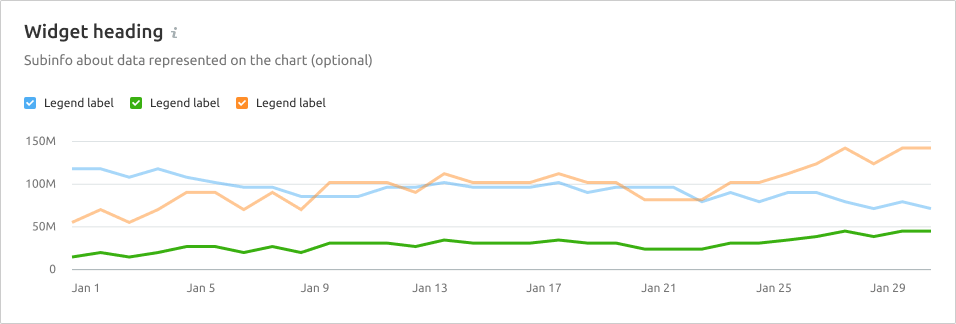
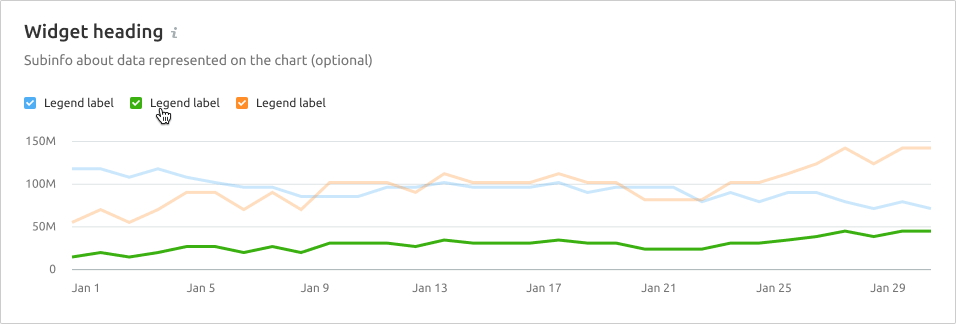
[ChartLegend, D3 chart] Add info about interaction with the legend, fix typos

diff --git a/website/docs/data-display/d3-chart/d3-chart.md b/website/docs/data-display/d3-chart/d3-chart.md
@@ -9,7 +9,7 @@ beta: true
 
 Мы не манипулируем вашими данными и не пытаемся из них что-то вычислить, отсортировать или проверить. Манипуляции с данными — работа команд, не компонента.
 
-Мы считаем, что графики — это сложный, комплексный компонент, который нельзя применять одной строчкой, поэтому его API более развесистый и поддерживает все концепции дизайн-системы.
+Мы считаем, что графики — это сложный, комплексный компонент, который нельзя применять одной строчкой, поэтому его API более "развесистый" и поддерживает все концепции дизайн-системы.
 
 @## Концепция
 
@@ -17,9 +17,9 @@ beta: true
 - В основе всех графиков лежит d3-scale, который вы передаете в наши графики в настроенном виде.
 - Мы стараемся дать доступ к каждой `svg`-ноде, чтобы вы могли дополнить или изменить её.
 
-Каждый элемент который вы будете размещать на графике имеет под собой реальный svg-элемент или группу элементов. Например, когда вы рендрите `<Line/>`, вы получите svg `<line d={...}>`, и все свойства будут сквозить на этот элемент.
+Каждый элемент, который вы будете размещать на графике, имеет под собой реальный svg-элемент или группу элементов. Например, когда вы рендерите `<Line/>`, вы получите svg `<line d={...}>`, и все свойства будут "сквозить" на этот элемент.
 
-Когда вы рендерите `<Line.Dots/>`(точки на линейном графике), вы получаете множество `<circle cx={...} cy={...}/>`, и все свойства будут сквозить на эти элементы.
+Когда вы рендерите `<Line.Dots/>` (точки на линейном графике), вы получаете множество `<circle cx={...} cy={...}/>`, и все свойства будут "сквозить" на эти элементы.
 
 Для точечного изменения свойств каждой конкретной точки нужно передать функцию, которая будет вызываться на каждой точке с рассчитанными свойствами этой точки.
 
@@ -44,7 +44,7 @@ beta: true
 </Line>
 ```
 
-не вложит `<circle/>` в `<line/>`, а отрисует их друг за другом.
+не вкладывает `<circle/>` в `<line/>`, а отрисовывает их друг за другом.
 
 За всю стилистику графиков отвечает CSS. Про его кастомизацию можно почитать в гайде [Themes](/style/themes/).
 
@@ -52,7 +52,7 @@ beta: true
 
 Любой `svg`-контейнер должен иметь абсолютные значения своего размера.
 
-Про виды `scale`, их `range` и `domain` можно почитать на [странице d3 на GitHub](https://github.com/d3/d3-scale).
+Про виды `scale`, их `range` и `domain`, можно почитать на [странице d3 на GitHub](https://github.com/d3/d3-scale).
 
 > `range` горизонтального `scale` задается перевернутым, чтобы начало отсчета было в нижнем левом углу.
 
@@ -68,12 +68,12 @@ beta: true
 
 @## Оси
 
-На самом деле, оси координат уже заданы, когда вы передали `scale` в рутовый компонент, однако для отрисовки нужно их указать.
+На самом деле, оси координат уже заданы, когда вы передали `scale` в рутовый компонент. Однако для отрисовки нужно их указать.
 
 - `XAxis/YAxis` - являются осевыми линиями.
 - `Ticks` - являются значениями на оси.
 
-Так же можно располагать несколько осей с разными позициями.
+Также можно располагать несколько осей с разными позициями.
 
 Количество тиков можно получить из метода `scale.ticks` или `scale.domain`. Чтобы вычислить примерное количество тиков, можно разделить размер графика на размер одного тика.
 
@@ -85,7 +85,7 @@ beta: true
 
 Значения и свойства на оси можно изменять, передав функцию.
 
-Тегом по умолчанию является `<text/>`, но его можно изменить, определив свойство `tag`, например, на `foreignObject` для вставки `html`-компонентов.
+Тегом по умолчанию является `<text/>`, но его можно изменить, определив свойство `tag`. Например, на `foreignObject` для вставки `html`-компонентов.
 
 > В аргументах функции вы можете получить вычисленные координаты `x/y` и произвести свои манипуляции со сдвигом.
 
@@ -93,7 +93,7 @@ beta: true
 
 @## Вспомогательные линии
 
-Вспомогательные линии, формируются также, как и тики.
+Вспомогательные линии формируются так же, как и тики.
 
 > Для простоты `ticks` можно указать на самом компоненте `Axis`, и он автоматически передастся на `<Axis.Ticks/>` и на `<Axis.Grid/>`.
 
@@ -101,7 +101,7 @@ beta: true
 
 @## Заголовки осей
 
-Подписи к осям формируются также, как тики и вспомогательные линии.
+Подписи к осям формируются так же, как тики и вспомогательные линии.
 
 > По умолчанию заголовок для оси Oy устанавливается справа, а для оси Ox - сверху. Но вы можете изменить это, передав в `position` необходимое расположение: right, top, left или bottom.
 
@@ -110,7 +110,7 @@ beta: true
 @## Aдаптивный график
 
 Для нормального отображения `svg` графиков на адаптивных макетах нужно динамически расчитывать ширину и высоту блока,
-поэтому мы создали компонент `ResponsiveContainer`, который так же поддерживает все свойства [Box](/layout/box-system/box-api), c помощью которых можно гибко настраивать размеры блока.
+поэтому мы создали компонент `ResponsiveContainer`, который поддерживает все свойства [Box](/layout/box-system/box-api), c помощью которых можно гибко настраивать размеры блока.
 
 > ResponsiveContainer поддерживает свойство `aspect` - это отношение размеров между шириной и высотой блока.
 
@@ -122,7 +122,7 @@ beta: true
 
 @## Легенда графика
 
-Имплиминтация работы кликабельной легенды для чартов по [гайду](/data-display/chart-legend/)
+Имплементация работы кликабельной легенды для чартов по [гайду](/data-display/chart-legend/)
 
 @example legend
 

diff --git a/website/docs/data-display/d3-chart/bar.md b/website/docs/data-display/d3-chart/bar.md
@@ -6,13 +6,13 @@ title: Bar chart
 
 Для столбчатых графиков используйте `scaleBand` вместо `scaleLinear`. Подробнее смотрите в документации d3 про [Ordinal Scales](https://github.com/d3/d3-scale#ordinal-scales).
 
-`scaleBand` может работать с нечисловыми значениями, поэтому в `domain` указывается не пара значений (минимальное и максимальное), а полный список значений.
+`scaleBand` может работать с нечисловыми значениями, поэтому в `domain` указывайте не пару значений (минимальное и максимальное), а полный список значений.
 
 @example bar
 
 @## Hover Bar
 
-Также, как и `<HoverLine/>`, есть компонент `<HoverRect/>`, который рисует прямоугольник при наведении на график.
+Так же, как и `<HoverLine/>`, есть компонент `<HoverRect/>`, который рисует прямоугольник при наведении на график.
 
 @example hover-bar
 
@@ -76,6 +76,6 @@ title: Bar chart
 
 @## Background
 
-Графикам можно задавать задний фон при необходимости. Для этого используются компоненты `<Bar.Background/>` и `<HorizontalBar.Background/>`
+Графикам можно задавать задний фон при необходимости. Для этого используйте компоненты `<Bar.Background/>` и `<HorizontalBar.Background/>`
 
 @example bar-background

diff --git a/website/docs/data-display/chart-legend/chart-legend.md b/website/docs/data-display/chart-legend/chart-legend.md
@@ -48,9 +48,13 @@ A static legend is a circle of the same size as the checkbox in the clickable le
 
 @## Interaction
 
-When you hover over the checkbox in the legend, the line increases (`stroke-width` changes from 3 to 5).
+By hovering on the checkbox, we will highlight the data on the chart by changing the transparency of the lines to 50% for the rest of the data categories.
 
 ![legend hover](static/legend-hover.png)
+
+If we disabled some data in the legend, then the data on the chart doesnэt change its transparency.
+
+![legend hover](static/legend-hover2.png)
 
 @## Disabled legend
 

diff --git a/website/docs/components/notice-bubble/notice-bubble-example.md b/website/docs/components/notice-bubble/notice-bubble-example.md
@@ -87,3 +87,7 @@ class DemoManager extends React.Component {
   }
 }
 ```
+
+@## NoticeBubble in iframe
+
+Since the component inside the iframe will have a different location from the one we recommend in the guide, you can use [Notice](/components/notice/) instead.
